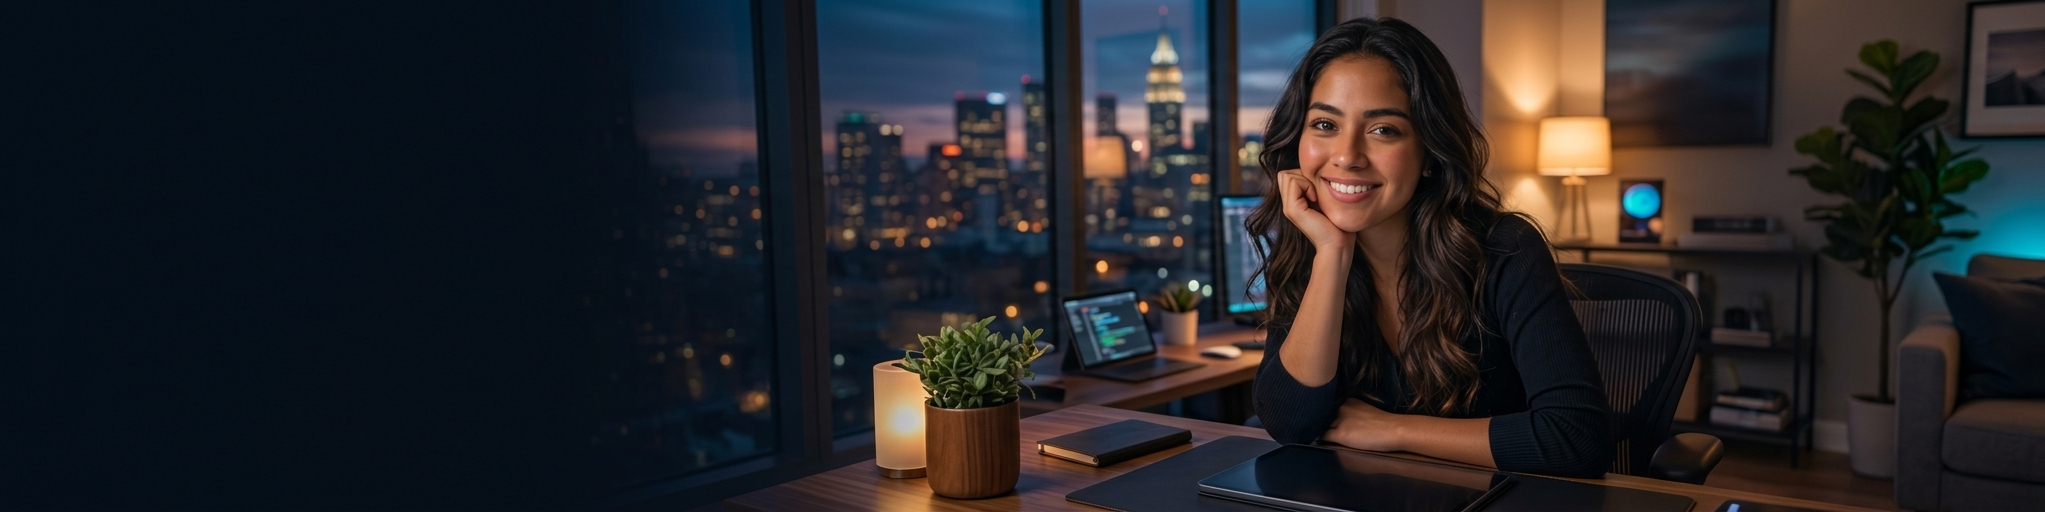
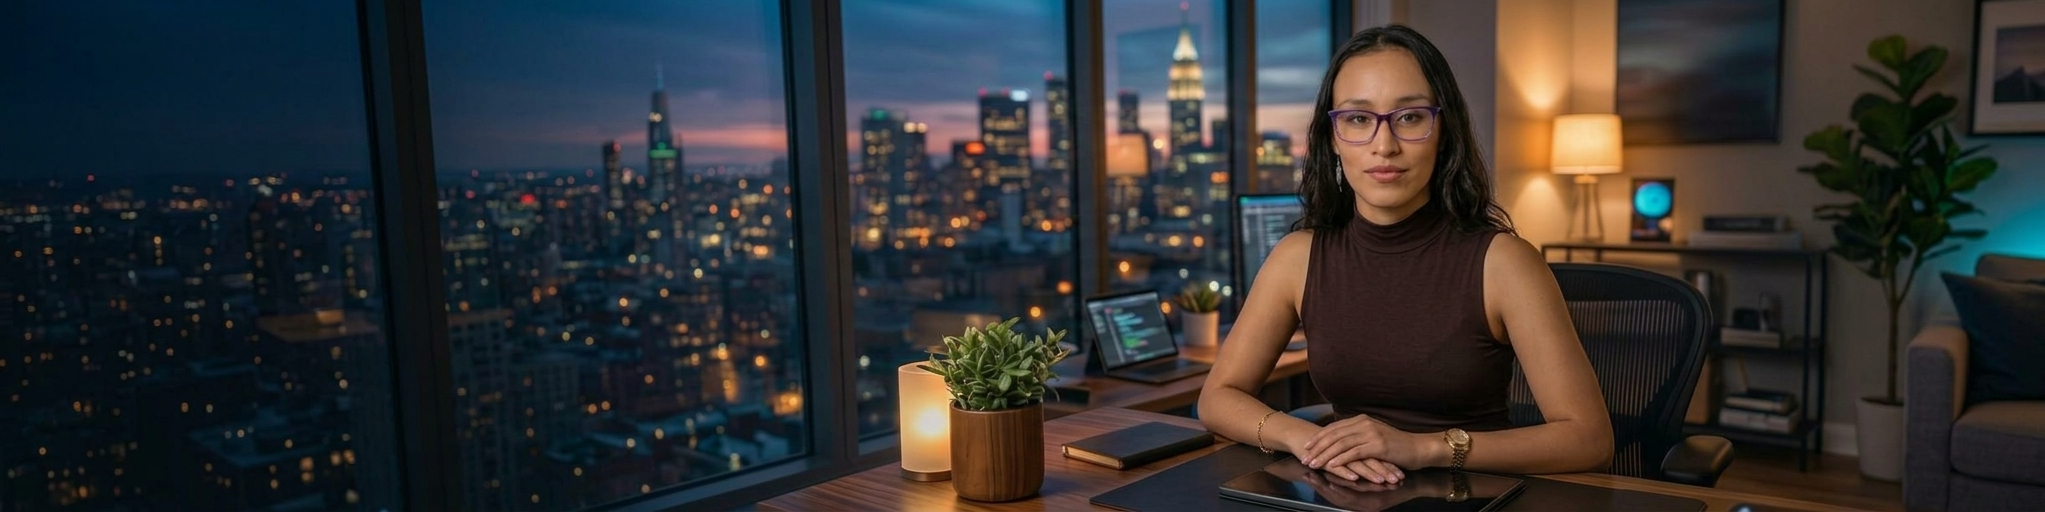
05/10/2026

diff --git a/index.html b/index.html
@@ -413,7 +413,7 @@
                     <!-- Proyecto 1 -->
                     <article class="project-card">
                         <div class="card-image-wrapper">
-                        <img src="img/proyectos/rent-a-car.jpg" alt="Rent a Car" class="card-image">
+                        <img src="img/rent_a_car.jpg" alt="Rent a Car" class="card-image">
                         </div>
                         <div class="card-body">
                         <div class="card-title-row">
@@ -441,7 +441,7 @@
                     <!-- Proyecto 2 -->
                     <article class="project-card">
                         <div class="card-image-wrapper">
-                        <img src="img/proyectos/chatbot-ia.jpg" alt="Chatbot con IA" class="card-image">
+                        <img src="img/chatbot-ia.jpg" alt="Chatbot con IA" class="card-image">
                         </div>
                         <div class="card-body">
                         <div class="card-title-row">
@@ -473,7 +473,7 @@
                     <!-- Proyecto 3 -->
                     <article class="project-card">
                         <div class="card-image-wrapper">
-                        <img src="img/proyectos/agenda-whatsapp.jpg" alt="Agenda y WhatsApp" class="card-image">
+                        <img src="img/agenda-whatsapp.jpg" alt="Agenda y WhatsApp" class="card-image">
                         </div>
                         <div class="card-body">
                         <div class="card-title-row">
@@ -504,7 +504,7 @@
                     <!-- Proyecto 4 -->
                     <article class="project-card">
                         <div class="card-image-wrapper">
-                        <img src="img/proyectos/finanzas-personales.jpg" alt="Finanzas Personales" class="card-image">
+                        <img src="img/finanzas-personales.jpg" alt="Finanzas Personales" class="card-image">
                         </div>
                         <div class="card-body">
                         <div class="card-title-row">
@@ -538,7 +538,7 @@
                     <!-- Proyecto 5: App del Clima -->
                     <article class="project-card extra-project hidden">
                         <div class="card-image-wrapper">
-                        <img src="img/proyectos/app-clima.jpg" alt="App del Clima" class="card-image">
+                        <img src="img/app-clima.jpg" alt="App del Clima" class="card-image">
                         </div>
                         <div class="card-body">
                         <div class="card-title-row">
@@ -565,7 +565,7 @@
                     <!-- Proyecto 6: Clasificador de Correos con IA -->
                     <article class="project-card extra-project hidden">
                         <div class="card-image-wrapper">
-                        <img src="img/proyectos/clasificador-correos.jpg" alt="Clasificador de Correos IA" class="card-image">
+                        <img src="img/clasificador-correos.jpg" alt="Clasificador de Correos IA" class="card-image">
                         </div>
                         <div class="card-body">
                         <div class="card-title-row">
@@ -594,7 +594,7 @@
                     <!-- Proyecto 7: Control de Alacena -->
                     <article class="project-card extra-project hidden">
                         <div class="card-image-wrapper">
-                        <img src="img/proyectos/control-alacena.jpg" alt="Control de Alacena" class="card-image">
+                        <img src="img/control-alacena.jpg" alt="Control de Alacena" class="card-image">
                         </div>
                         <div class="card-body">
                         <div class="card-title-row">
@@ -623,7 +623,7 @@
                     <!-- Proyecto 8: RAG para Librería -->
                     <article class="project-card extra-project hidden">
                         <div class="card-image-wrapper">
-                        <img src="img/proyectos/rag-libreria.jpg" alt="RAG para Librería" class="card-image">
+                        <img src="img/rag-libreria.jpg" alt="RAG para Librería" class="card-image">
                         </div>
                         <div class="card-body">
                         <div class="card-title-row">

diff --git a/script.js b/script.js
@@ -119,7 +119,7 @@ document.addEventListener('DOMContentLoaded', () => {
   if (downloadBtn) {
     downloadBtn.addEventListener('click', () => {
       const link = document.createElement('a');
-      link.href = 'hoja-de-vida.pdf';
+      link.href = 'data/CV_Carolina_Florez.pdf';
       link.download = 'CV_Carolina_Florez.pdf';
       document.body.appendChild(link);
       link.click();
